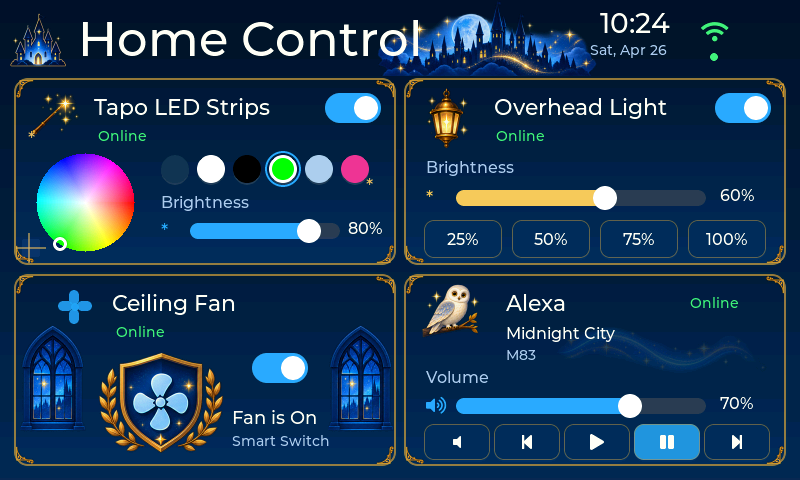
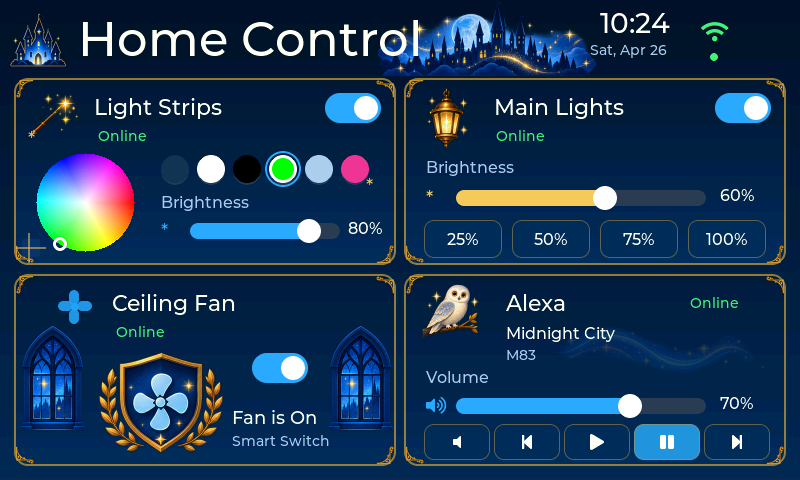
Rename lighting cards to Light Strips and Main Lights
Update all display themes, matching web target labels and rendered previews.

Changed region(s): [[0.0938, 0.1875, 0.3438, 0.25], [0.5938, 0.1875, 0.8438, 0.25]]

diff --git a/main/ui.c b/main/ui.c
@@ -756,10 +756,10 @@ static void create_tapo_card(lv_obj_t *root)
     lv_obj_t *card = make_card(root, 14, 78, 382, 187);
     if (T->magic) {
         add_theme_sprite(card, THEME_ART_MAGIC_SPARK, 16, 6, true);
-        make_label(card, "Tapo LED Strips", 78, 15, &lv_font_montserrat_22, T->text);
+        make_label(card, "Light Strips", 78, 15, &lv_font_montserrat_22, T->text);
         make_status_dot(card, &s_tapo_status, 82, 48);
     } else {
-        make_label(card, "Tapo LED Strips", 70, 15, &lv_font_montserrat_22, T->text);
+        make_label(card, "Light Strips", 70, 15, &lv_font_montserrat_22, T->text);
         add_chain_icon(card, 20, 20, T->accent_2);
         make_status_dot(card, &s_tapo_status, 72, 48);
     }
@@ -815,10 +815,10 @@ static void create_overhead_card(lv_obj_t *root)
     lv_obj_t *card = make_card(root, 404, 78, 382, 187);
     if (T->magic) {
         add_theme_sprite(card, THEME_ART_MAGIC_LANTERN, 18, 8, true);
-        make_label(card, "Overhead Light", 88, 15, &lv_font_montserrat_22, T->text);
+        make_label(card, "Main Lights", 88, 15, &lv_font_montserrat_22, T->text);
         make_status_dot(card, &s_overhead_status, 90, 48);
     } else {
-        make_label(card, "Overhead Light", 70, 15, &lv_font_montserrat_22, T->text);
+        make_label(card, "Main Lights", 70, 15, &lv_font_montserrat_22, T->text);
         add_bulb_icon(card, 23, 13, T->warm);
         make_status_dot(card, &s_overhead_status, 72, 48);
     }

diff --git a/main/web_config.c b/main/web_config.c
@@ -410,9 +410,9 @@ static esp_err_t root_handler(httpd_req_t *req)
         "Enter the entity IDs shown in Home Assistant. The included MQTT bridge automation translates panel commands into Home Assistant actions.</div>"));
 
     snprintf(buf, sizeof(buf),
-             "<div class='row'><div><label>Tapo LED strips</label>"
+             "<div class='row'><div><label>Light Strips</label>"
              "<input name='ha_tapo_entity' maxlength='127' value=\"%s\" placeholder='light.tapo_led_strips' autocapitalize='none' spellcheck='false'></div>"
-             "<div><label>Overhead light</label>"
+             "<div><label>Main Lights</label>"
              "<input name='ha_overhead_entity' maxlength='127' value=\"%s\" placeholder='light.office_overhead' autocapitalize='none' spellcheck='false'></div></div>",
              ha_tapo, ha_overhead);
     ESP_ERROR_CHECK_WITHOUT_ABORT(send_chunk(req, buf));
